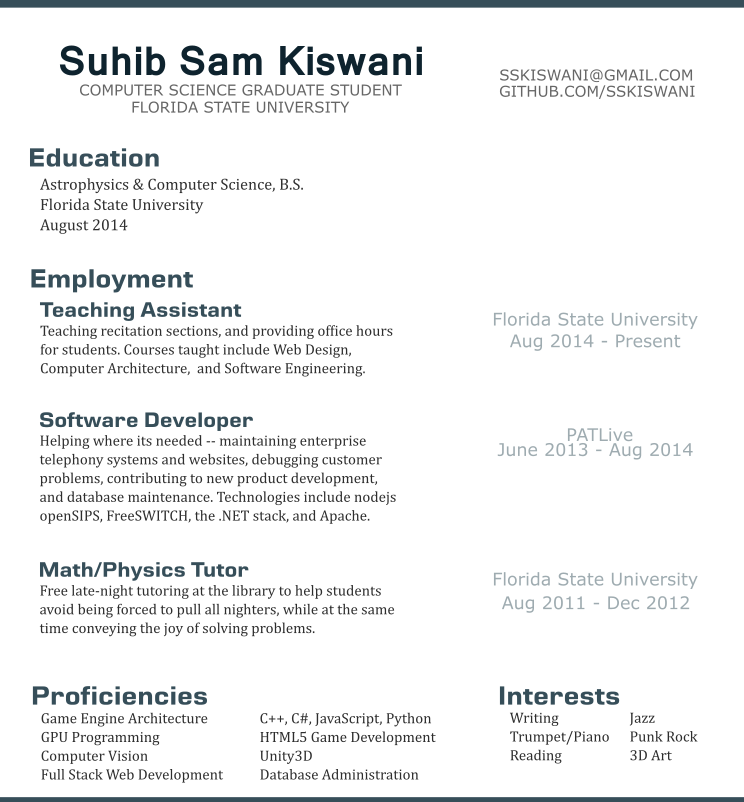
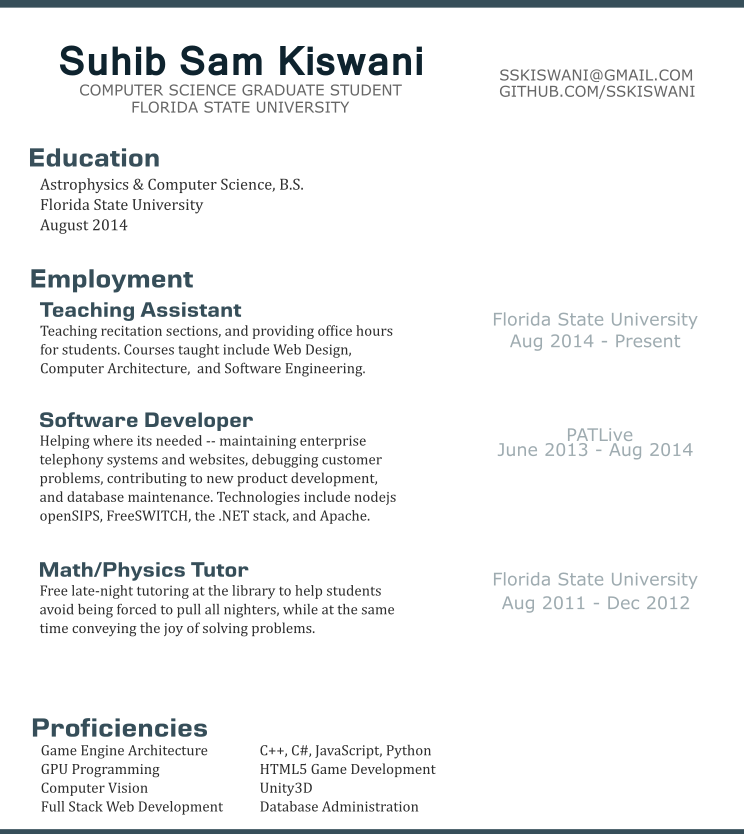
added algo page

diff --git a/teaching.html b/teaching.html
@@ -1,0 +1,32 @@
+<!DOCTYPE html>
+<html>
+<head lang="en">
+   <meta charset="UTF-8">
+   <title>COP4531: Algorithm Design and Analysis - Fall 2015</title>
+
+   <link rel="stylesheet" type="text/css" href="css/static_style.css" />
+</head>
+<body>
+   <div class="header">
+      <a><h1 style="color:white">COP4531: Algorithms</h1></a>&nbsp;
+      <ul class="nav">
+         <li><a href="https://drive.google.com/folderview?id=0B5mt55DSfA9ad1VWQk5JTk1nX0U&usp=sharing">resources</a></li>
+         <li></li>
+      </ul>
+   </div>
+
+   <div class="content panel">
+      <h3>possibly more coming soon...</h3>
+
+      Until then, here's some stuff that helped me:
+      <ul>
+         <li><a href="http://ocw.mit.edu/courses/electrical-engineering-and-computer-science/6-046j-introduction-to-algorithms-sma-5503-fall-2005/video-lectures/">MIT OCW Intro to Algorithms videos</a></li>
+         <li><a href="http://nbviewer.ipython.org/url/norvig.com/ipython/TSPv3.ipynb">The Traveling Salesperson Problem</a> an IPython notebook by <a href="https://en.wikipedia.org/wiki/Peter_Norvig">Peter Norvig</a></li>
+      </ul>
+   </div>
+
+   <div class="footer">
+   </div>
+
+</body>
+</html>

diff --git a/css/static_style.css b/css/static_style.css
@@ -23,10 +23,6 @@ a:visted {
   /*color: rgba(0, 128, 213, 1);*/
 }
 
-/***********************************************************************************/
-/* HEADER */
-/***********************************************************************************/
-
 .header {
    width: 100%;
    height: 60px;
@@ -83,11 +79,7 @@ a:visted {
    font-size: 16px;
 }
 
-/*.nav li:first-child:before { content: ''; }*/
-
-/***********************************************************************************/
 /* CONTENT */
-/***********************************************************************************/
 
 .mug {
    float: left;
@@ -107,6 +99,9 @@ a:visted {
 
    margin: 10px auto;
    padding: 0;
+}
+
+.panel {
 }
 
 .words {

diff --git a/index.html b/index.html
@@ -38,6 +38,7 @@
       <ul class="nav">
          <li><a href="https://sskiswani.github.io/">about</a></li>
          <li><a href="img/Kiswani_Resume.png">resume</a></li>
+         <li><a href="teaching.html">teaching</a></li>
          <li></li>
       </ul>
    </div>
